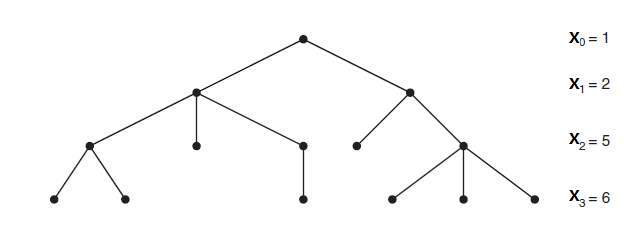
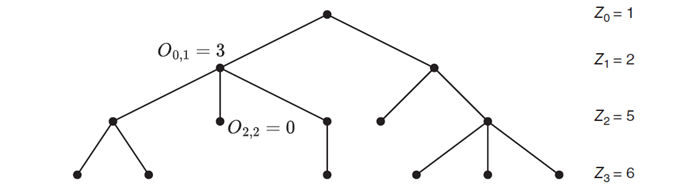
Stochastic add poisson

diff --git a/docs/Statistics/Stochastic.md b/docs/Statistics/Stochastic.md
@@ -26,8 +26,11 @@ img{
 
 * [马尔可夫链](https://zhuanlan.zhihu.com/p/151683887)
 
-* [母函数和矩母函数的联系和区别？](https://www.zhihu.com/question/24952770) 
+* [母函数和矩母函数的联系和区别？](https://www.zhihu.com/question/24952770) ，[概率母函数的意义](https://blog.csdn.net/weixin_45183579/article/details/108760536)
  
+* Levy 过程
+
+* [泊松过程](https://zhuanlan.zhihu.com/p/537124844)
 
 
 ## Review
@@ -35,9 +38,9 @@ img{
 * 随机过程（Stochastic Process）是一系列随机动作产生的状态的集合 {$X_t \in S$}，其中 {$t \in I$} 是随机过程的索引，$S$是状态空间（State space）
 
 
-* Monte Carlo Simulation 是指重复实验多次后取结果的均值作为近拟
+<details>
+  <summary> 数学提示: Conditional Expectation</summary>
 
-* Conditional Expectation
 $$Var(Y)=E(Y^2)-E(Y)^2    \quad\quad\quad\quad\quad (1)$$
 $$Var(Y|X)=E(Y^2|X)-E(Y|X)^2    \quad (2)$$
 
@@ -46,11 +49,7 @@ $$=E(E(Y^2|X)-E(Y|X)^2) + E(E(Y|X)^2)-E(E(Y|X))^2$$
 $$=E(Y^2)-E(Y)^2$$
 $$=Var(Y)$$
 
-* 概率母函数 Probability generating function $G_x(s)=E(s^x)=\sum\limits_{x=0}^{\infty}s^xP(x)$
-    - $G^{(j)}(0)=j!P(j)$
-    - $G''(0)=2P(2)$
-
-![](./Stochastic/4-3.png)
+</details>
 
 
 
@@ -77,11 +76,11 @@ $$=(\alpha P^{t1})_{s_1} (P^{t_2-t_1})\_{s_1,s_2} ... (P^{t_n-t\_{n-1}})\_{s\_{n
     - **Limiting** Distribution $\lim\limits_{n \rightarrow \infty}P^n_{ij}=\overrightarrow{\lambda_j}$ 即 $\lim\limits_{n \rightarrow \infty}\overrightarrow{\alpha}P^n=\overrightarrow{\lambda}$，此时 $\lim\limits_{n \rightarrow \infty}P^n=\Lambda$ 的每一行都等于$\overrightarrow{\lambda}$
     - **Stationary** Distribution 满足 $\overrightarrow{\pi} = \overrightarrow{\pi}P$
     - Limiting 一定 Stationary：$\overrightarrow{\lambda} = \lim\limits_{n \rightarrow \infty}\overrightarrow{\alpha}P^n = \lim\limits_{n \rightarrow \infty}\overrightarrow{\alpha}P^{n-1}P=\overrightarrow{\lambda}P$
-    - Stationary 不一定 Limiting（除非 Ergodic）: $P = \begin{bmatrix} 1 & 0 \\ 0 & 1 \end{bmatrix}$ 时，状态向量会在 $(\pi1,\pi2)$ 与 $(\pi2,\pi1)$ 间来回切换，且这两个最终状态取决于状态的初始值（而不是P）
+    - Stationary 不一定 Limiting（除非 Ergodic）: $P = \begin{bmatrix} 1 & 0 \\\\ 0 & 1 \end{bmatrix}$ 时，状态向量会在 $(\pi1,\pi2)$ 与 $(\pi2,\pi1)$ 间来回切换，且这两个最终状态取决于状态的初始值（而不是P）
 
 
 * 如果存在$n \ge 1$ 使 $P^n$ 为正定矩阵（所有元素>0），则 $P^n$ 是 **Regular** Transition Matrix，此时存在对应的 Limiting Distribution 
-    - $P = \begin{bmatrix} 0 & 1 & 0 \\ 0 & 0 & 1 \\ 1 & 0 & 0 \end{bmatrix}$, $P^2 = \begin{bmatrix} 0 & 0 & 1 \\ 1 & 0 & 0 \\ 0 & 1 & 0 \end{bmatrix}$, $P^3 = \begin{bmatrix} 1 & 0 & 0 \\ 0 & 1 & 0 \\ 0 & 0 & 1 \end{bmatrix}$ 则会在多种半正定矩阵中循环（不存在正定的$P^n$，且不 Limiting ）
+    - $P = \begin{bmatrix} 0 & 1 & 0 \\\\ 0 & 0 & 1 \\\\ 1 & 0 & 0 \end{bmatrix}$, $P^2 = \begin{bmatrix} 0 & 0 & 1 \\\\ 1 & 0 & 0 \\\\ 0 & 1 & 0 \end{bmatrix}$, $P^3 = \begin{bmatrix} 1 & 0 & 0 \\\\ 0 & 1 & 0 \\\\ 0 & 0 & 1 \end{bmatrix}$ 则会在多种半正定矩阵中循环（不存在正定的$P^n$，且不 Limiting ）
     - [计算 Regular 矩阵的 Stationary Distribution](./Stochastic/3-2.png): $\pi P=\pi$
 
 
@@ -121,7 +120,7 @@ $$=(\alpha P^{t1})_{s_1} (P^{t_2-t_1})\_{s_1,s_2} ... (P^{t_n-t\_{n-1}})\_{s\_{n
     - 反例 -- *Periodic* + Irreducible: gcd=2时，t=2,4,6,... 可以观测到一样的状态
 
 
-* **Reversible** Markov Chain 的条件： $\pi_iP_{ij}=\pi_jP_{ji}$ for all $i,j$；其中 $\pi$ 是Stationary Distribution
+* **Reversible** Markov Chain 的条件： $\pi_iP_{ij}=\pi_jP_{ji}$ for all $i,j$；其中 $\pi$ 是 Stationary Distribution
 
 
 * **Absorbing State** $i$ 满足：$P_{ii}=1$，如果 Markov Chain 含有多个 Absorbing State，则称其为 **Absorbing Chain**
@@ -133,42 +132,108 @@ $$=(\alpha P^{t1})_{s_1} (P^{t_2-t_1})\_{s_1,s_2} ... (P^{t_n-t\_{n-1}})\_{s\_{n
 
 ## Branching Processes
 
-Branching Processes {$X_n$} 常用于模拟 Population growth；它是一种 Markov Chain，因为子代个数 $X_{n+1}$ 仅取决于其父代个数 $X_{n}$ （以及 Offspring 分布）
+Branching Processes {$Z_n$} 常用于模拟 Population growth；它是一种 Markov Chain，因为子代个数 $Z_{n+1}$ 仅取决于其父代个数 $Z_{n}$ （以及 Offspring 分布）
 
 
 ![](./Stochastic/4-1.png)
 
 
 * 假设 
-    - $Y_{n,i}$ 表示第 $n$ 代第 $i$ 个个体的后代数
-    - $X_{n+1}=\sum\limits_{i=1}^{X_{n}}Y_{n,i}$ 表示第 $n+1$ 代的个体数目
-    - 已知 $P[X_{n+1}=S_{n+1} | X_{n}=S_{n} ] = P[\sum\limits_{r=1}^{X_{n}} Y_{n,r}=S_{n+1} | X_{n}=S_{n} ]= P[\sum\limits_{r=1}^{S_{n}} Y_{n,r}=S_{n+1}]$
-    - Transition matrix 元素 $P^n_{ij} = P(\sum\limits_{r=1}^{i}Y_{n,r}=j)$ 表示第 $n$ 代时 $i$ 个个体累计产生 $j$ 个后代的概率；设定 $P^n_{00}=1$
-    - Absorbing state = 0，即当 $X_n=0$ 时发生灭绝事件，其余 all nonzero states are transient
+    - $O_{n,i}$ 表示第 $n$ 代第 $i$ 个个体的后代数
+    - $Z_{n+1}=\sum\limits_{r=1}^{Z_{n}}O_{n,r}$ 表示第 $n+1$ 代的个体数目
+    - 已知 $P[Z_{n+1}=S_{n+1} | Z_{n}=S_{n} ] = P[\sum\limits_{r=1}^{Z_{n}} O_{n,r}=S_{n+1} | Z_{n}=S_{n} ]= P[\sum\limits_{r=1}^{S_{n}} O_{n,r}=S_{n+1}]$
+    - Transition matrix 元素 $P^n_{ij} = P(\sum\limits_{r=1}^{i}O_{n,r}=j)$ 表示第 $n$ 代时 $i$ 个个体累计产生 $j$ 个后代的概率；设定 $P^n_{00}=1$
+    - Absorbing state = 0，即当 $Z_n=0$ 时发生灭绝事件，其余 all nonzero states are transient
+    - 结局只能是灭绝/无限扩增
 
 
-
-* 假设单个个体的后代数目遵从某种概率分布（Offspring 分布），用 $a_k$ 表示 单个个体产生 $k$ 个后代的概率
+* 假设**单个个体的后代数目**遵从某种概率分布 $a = (a0, a1, a2,…)$，其中 $a_k$ 表示 单个个体产生 $k$ 个后代的概率
     - $a_0=0$ 则 Population 永远增加；
-    - $a_0=1$ 则 $X_n = 0$ for $n \ge 1$
+    - $a_0=1$ 则 $Z_n = 0$ for $n \ge 1$
     - 因此假设 $0 < a_0 < 1$ 且 $a_0+a_1 <1$ （即，有一定概率产生多个后代）
+    - **Offspring 分布** $a$ 可以是各种常见分布，比如 Poisson
 
 
-* 单个个体后代数目分布的均值 $\mu = \sum\limits_{k=0}^{\infty}ka_k$，则第 $n$ 代个数的均值 $E(X_n)=\mu^n$ （[推导过程](./Stochastic/4-2.png)）
-    - 灭绝事件 $E: X_n=0$ 最终发生的概率 $P(E)=\lim\limits_{n \rightarrow \infty}P(X_n=0)=\lim\limits_{n \rightarrow \infty}1-\mu^n$
-    - 故而，依据 $\mu$ 的取值，$X_n$最终可能趋向 $0,1,\infty$ 三种可能
+* 单个个体后代数目分布的均值 $\mu = \sum\limits_{k=0}^{\infty}ka_k$，则第 $n$ 代个数的均值 $E(Z_n)=\mu^n$ （[推导过程](./Stochastic/4-2.png)）
+    - 灭绝事件 $E: Z_n=0$ 最终发生的概率 $P(E)=\lim\limits_{n \rightarrow \infty}P(Z_n=0)=\lim\limits_{n \rightarrow \infty}1-\mu^n$
+    - 故而，依据 $\mu$ 的取值，$Z_n$最终可能趋向 $0,1,\infty$ 三种可能
 
 
 
-* Offspring 分布 $Y$的母函数是 $G(s)=\sum\limits_{k=0}^{\infty}s^ka_k$
-    - 当 $\mu>1$ 时，方程 $s=G_Y(s)$ 的最小解 $s=min(roots)$ 是走向灭绝结局的概率，[示例](./Stochastic/4-7.png)
-    - （当 $\mu \leq 1$ 时灭绝结局概率=1）
-* $G(s)$ 的 $n$ 重复合记为 $G^n(s)$
-    - $G^n(s)=G^{n-1}(G(s))=G(...G(G(s))...)$
-    - $G^n(s)=G_{Xn}(s)=\sum\limits_{k=0}^{\infty}s^kP(X_n=k)$
-    - $X_0=i$ 时，$X_n$的母函数 $=\sum\limits_{k=0}^{\infty}s^kP^n_{ik}=[G^n(s)]^i$ （可用于推算Transition matrix -- 出处百度，待查证）
+<details>
+  <summary> 数学提示: PGF 概率母函数/概率生成函数 Probability generating function $G(s)$</summary>
+
+PGF可用于：确认不同分布是否相互独立，计算期望、方差等
+
+$$G_x(s)=E(s^x)=\sum\limits_{x=0}^{\infty}s^xP(x)$$
+
+$$G^{(j)}(0)=j!P(j)$$
+
+$$G''(0)=2P(2)$$
+
+<img src="../Stochastic/4-3.png" alt="4-3.png" />
+<!-- ![](./Stochastic/4-3.png) -->
+</details>
 
 
+<details>
+  <summary> 数学提示: $G(s)$ 的 $n$ 重复合记为 $G^n(s)$ </summary>
+
+$$G^n(s)=G^{n-1}(G(s))=G(...G(G(s))...)$$
+
+</details>
+
+
+
+* [计算灭绝结局的概率](./Stochastic/4-7.png): 当 $\mu>1$ 时，方程 $s=G_k(s)$ 的最小解 $s=min(roots)$ 是走向灭绝结局的概率（当 $\mu \leq 1$ 时灭绝结局概率=1）
+    - 第 $n$ 代个体数目 $Z_n$ 的 
+    $$G_n(s)=\sum\limits_{k=0}^{\infty}s^kP(Z_n=k)$$
+    - Offspring 分布 $a$ 的 
+    $$G_a(s)=\sum\limits_{k=0}^{\infty}s^ka_k$$
+    - $$G_n(s)=E(s^{Z_n})=E(s^{\sum\limits_{k=0}^{Z_{n-1}}O_k})=E([G_a(s)]^{Z_{n-1}})=G_{n-1}(G_a(s))=G_a(G_{n-1}(s))$$
+    
+
+
+## Markov Chain Monte Carlo (MCMC)
+
+
+* Monte Carlo Simulation 是指重复实验/模拟多次后取结果的均值作为期望值的近拟
+
+* 虽然 Markov Chain 并非完全随机，但步数足够大时它的 Monte Carlo 也满足 [Strong Law](./Stochastic/5-1.png) 
+
+* [Metropolis–Hastings Algorithm](./Stochastic/5-2.png) 从 Stationary Distribution $\pi$ 模拟生成 Markov Chain: 
+    1. 假设某一步模拟从 state $i$ 开始
+    2. 根据 Transition Matrix 中 $P_{ij}$ 的概率，随机选取一个 $j$
+    3. Acceptance Ratio $\alpha = \frac{\pi_jP_{ji}}{\pi_iP_{ij}}$
+    4. 生成一个 uniform random number $u \sim U(0,1)$
+    5. 若 $u \leq \alpha$ 则下一步是 state $j$，否则下一步依旧停留在 $i$
+
+
+* Gibbs sampler 从 m-dimensional joint density $\pi(x_1, x_2, ..., x_m)$ 生成样本 $X^{(t)}=(X^{(t)}_1,X^{(t)}_2,...,X^{(t)}_m)$
+    - $X^{(t+1)}_i$ depends on $X^{(t+1)}_{[1,i-1]}$ and $X^{(t)}_{[i+1,m]}$
+
+
+* 希望少量模拟样本也符合期望分布？问问GPT：Perfect sampling of MCMC
+
+
+
+## Poisson Process
+
+
+* **Counting Process** $N(t)$ 是一组随机的正整数，若 $0 \le s \le t$ 意味着 $N(s) \le N(t)$
+
+* **Stationary increments** 指对于任意 $h,t > 0$，$(N_{t+h}-N_t)$的分布与 $t$ 无关
+    - $P(N_{t+h}-N_h=k)=P(N_t-N_0=k)$
+    - 可将 $N_t - N_0$ 视为 $[0，t]$ 间隔内事件发生的总数
+
+* **Independent increments** 指对于 $0 \le t1 \le t2 \le ... \le tn$，各个 $N_{t_n}-N_{t_{n-1}}$ 相互独立
+
+
+* 一个增速为 $\lambda$ 的 **Poisson Process** 满足
+    - $N_0 = 0$  
+    - $N_t  \sim Poisson(\lambda t)$   $$P(N_t=k)=\frac{e^{-\lambda t}(\lambda t)^k}{k!}$$
+    - Stationary increments 即 $$P(N_{t_n}-N_{t_{n-1}}=k) \\\\ =P(N_t-0=k) \\\\ =P(N_t=k)$$
+    - Independent increments
 
 
 
